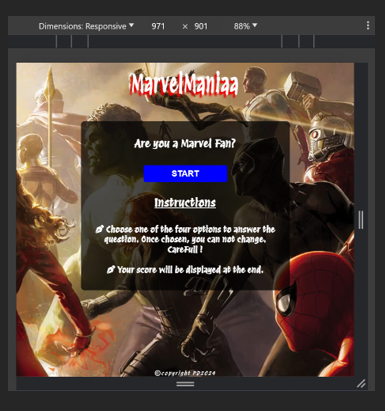
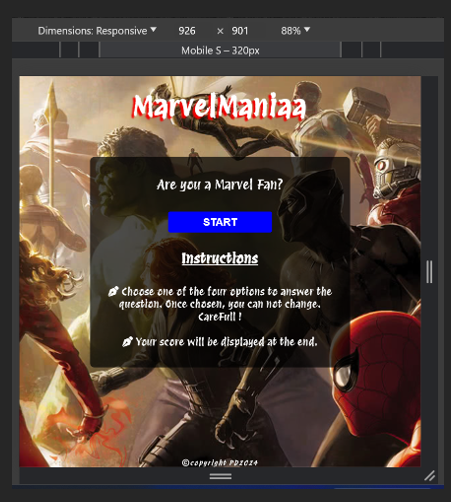
added am i responsive image

diff --git a/assets/css/style.css b/assets/css/style.css
@@ -20,8 +20,8 @@ body {
 
 h1 {
     text-align: center;
-    margin: 30px;
-    font-size: 3em;
+    margin: 30px auto;
+    font-size: 2.8em;
     font-family: "protest Revolution", sans-serif;
     font-weight: 900;
     color: #fff;
@@ -278,8 +278,8 @@ footer{
     text-align: center;
 }
 
-@media screen and (min-width:900px) {
+@media screen and (min-width:800px) {
     h1{
-        font-size: 3.8em;
+        font-size: 4em;
     }
 }

diff --git a/README.md b/README.md
@@ -1,6 +1,6 @@
 # MarvelManiaa
 
-![Responsive Image]()
+![Responsive Image](assets/images/readme/amiresponsive.png)
 
 MarvelManiaa is a Marvel Studio-themed quiz website I decided to come up with as I love watching Marvel movies with my family and friends. The user will be provided with a question along with four options, among which one option will be the correct answer. The user will be able to view the result at the end of the Quiz.
 ### - By Priyanka Dhanabal
@@ -73,8 +73,11 @@ The user will be provided with a question along with four options, among which o
 		Displays questions with 4 options. Once an option is chosen the right answer is highlighted with green and the wrong is with red. 
 		On the top right-hand side, the user can view the question number.
 		
-		![Quiz Container Image](assets/images/readme/quiz.png)
-		![Quiz Container with right answer and wrong chosen Image](assets/images/readme/quizWithAnswers.png)
+		![Quiz Container Image](assets/images/readme/quiz.png)<br>
+
+		![Quiz Container with right answer and wrong chosen Image](assets/images/readme/quizWithAnswers.png)<br>
+
+		![Question display](assets/images/readme/questionNumber.png)
 		
 		
 	- Review Container
@@ -132,6 +135,8 @@ Below tests were carried out.
 |Users can view the score with a gif  | True |
 |Users can view the welcome page when the Home button is clicked  | True |
 
+<br>
+
 **Form Validation tests were carried out as below.**
 
 |Input | Status |
@@ -146,10 +151,15 @@ Below tests were carried out.
 
 ![Form response after click submit](assets/images/readme/formValidation2.png)
 
+<br>
+
  **Page is responsive**
 |Input | Status |
 |--|--|
 | Page is responsive to the device the user views the website | True |
+
+<br>
+
 
 ![Responsive in smaller screen](assets/images/readme/responsivness1.png)
 
@@ -186,13 +196,13 @@ Below tests were carried out.
 
 - When the game is finished and the user comes back to the Home page, where the start button is displayed. If the user wanted to play again by clicking the start button, the score was displayed not the questions with options.
 
-![Bug Image]()
+![Bug Image](assets/images/readme/bug.png)
 
 - I was advised by my mentor that the code works but it is not feasible, so I had to change my code in such a way that, there are no new buttons created but update the innerText value in the existing button.
 
 - This resolved the Bug. Now the user can play continuously.
 
-![Bug resolved Image]()
+![Bug resolved Image](assets/images/readme/bugFixed.png)
 
 ### unfixed Bugs
 
